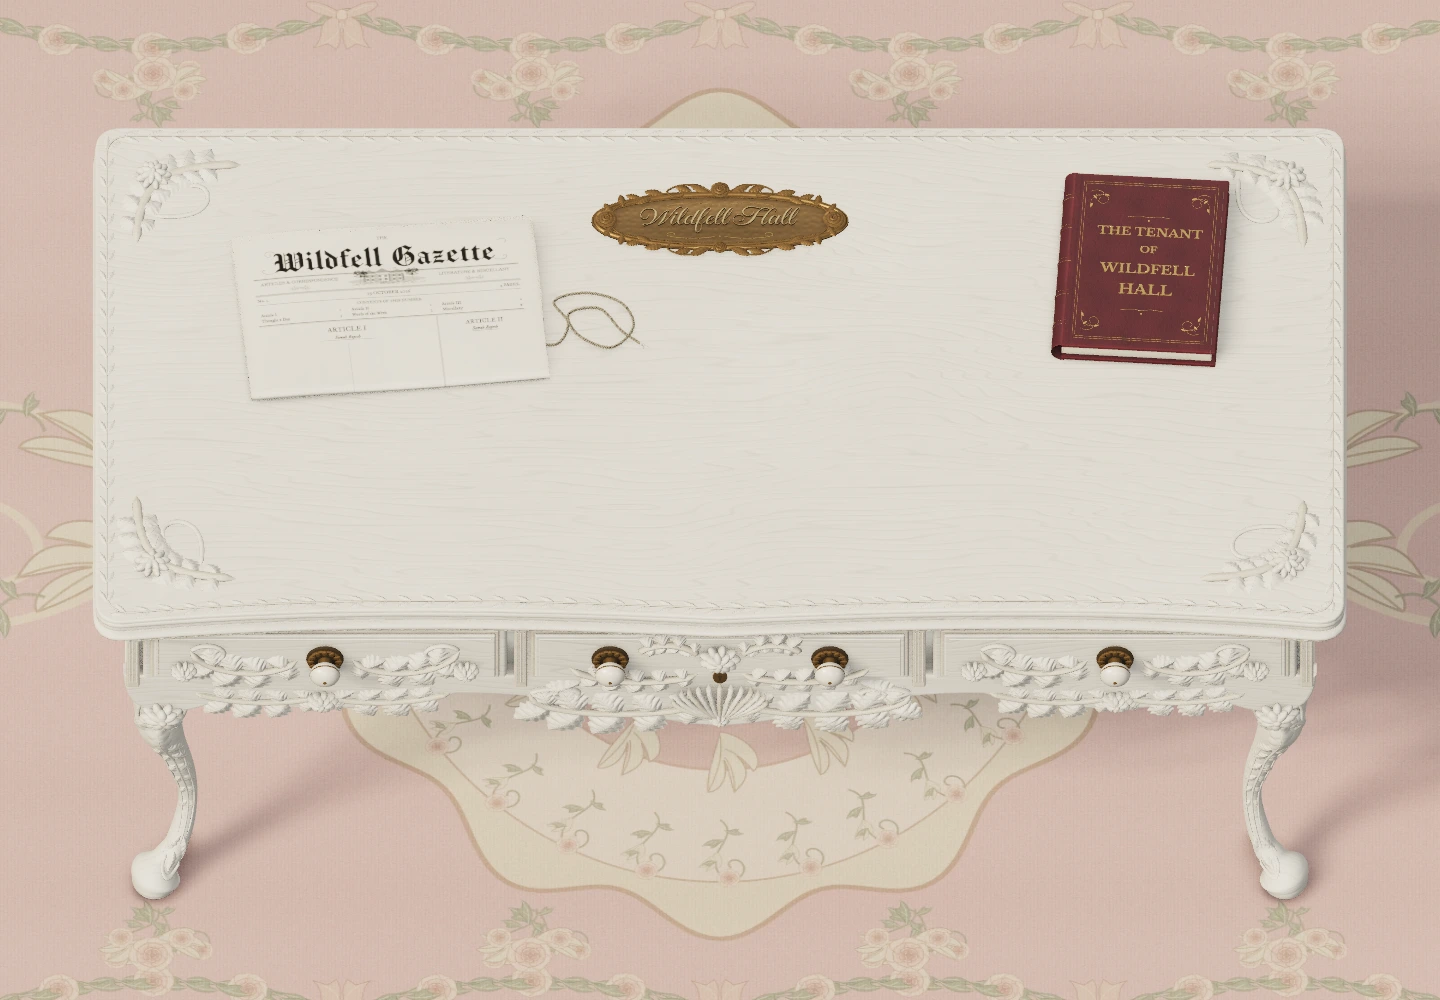
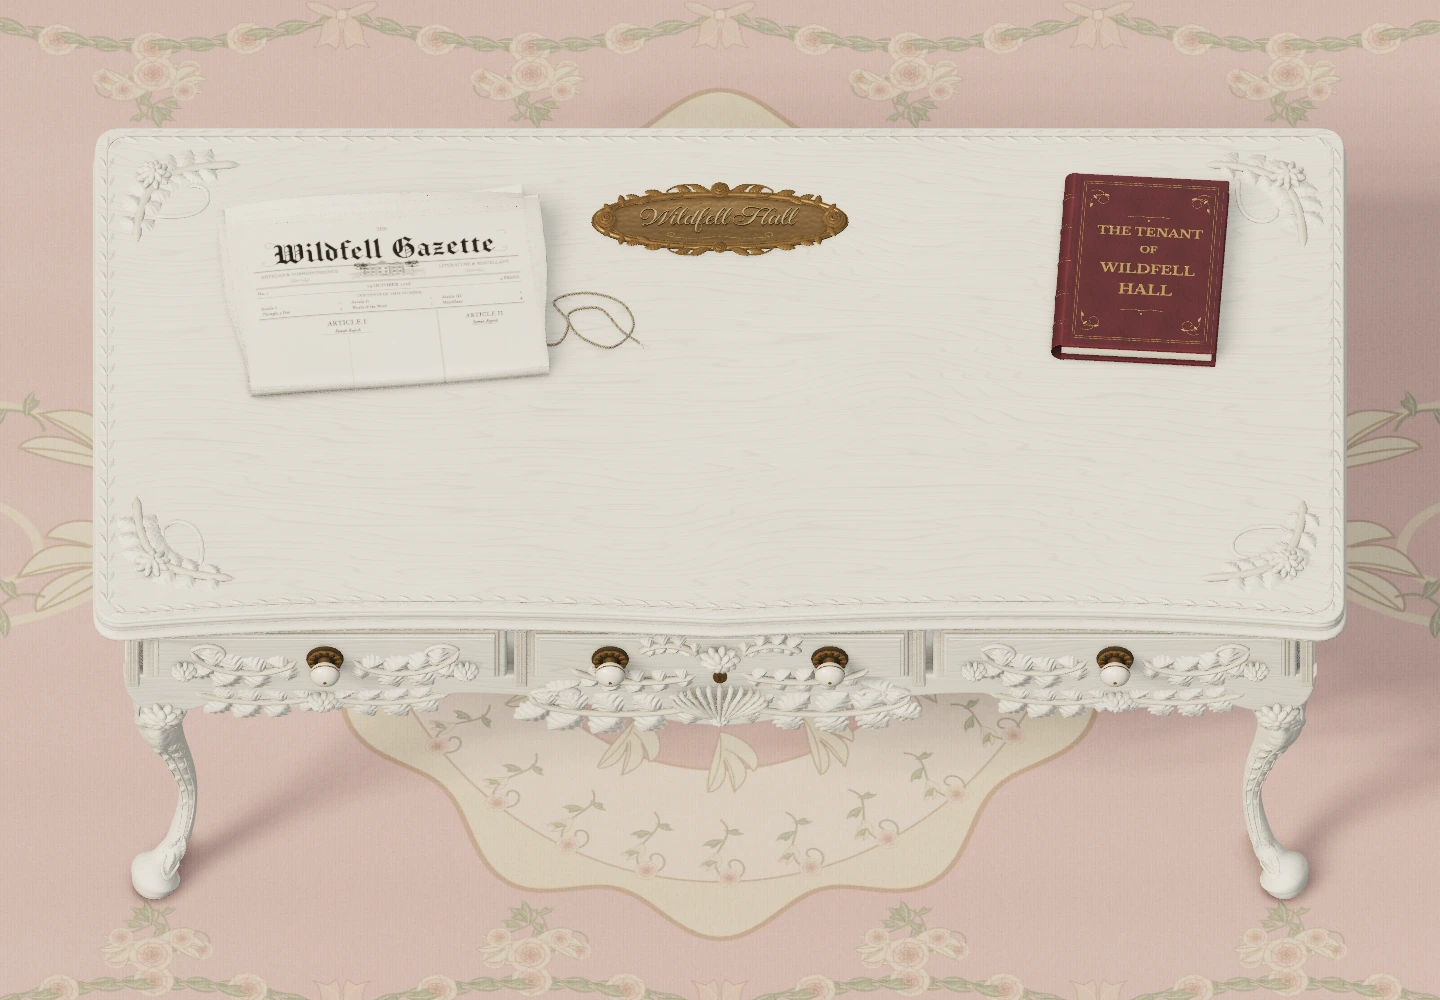
Give the resting Gazette a loose, layered fold

diff --git a/src/gazette-geometry.js b/src/gazette-geometry.js
@@ -30,13 +30,19 @@ export function bendGazette(geometry, openness) {
       const t = row / ROWS;
       if (row) {
         const v = (row - .5) / ROWS;
-        const shoulder = THREE.MathUtils.smoothstep(v, .49 + .004 * u, .538 + .004 * u);
-        const loose = fold * (Math.PI - .035 - .016 * Math.sin(u * Math.PI)) * shoulder;
+        // The untied bundle holds air in its shoulder. As it opens that
+        // broad bend settles into the much smaller remembered paper crease.
+        const radiusSpan = .048 + .046 * fold;
+        const centre = .514 + .004 * u;
+        const shoulder = THREE.MathUtils.smoothstep(v, centre - radiusSpan / 2, centre + radiusSpan / 2);
+        const loose = fold * (Math.PI - .065 - .024 * Math.sin(u * Math.PI)) * shoulder;
         const cockle = .014 * Math.sin(v * 13 + u * 5) + .006 * Math.sin(v * 31 - u * 8);
         const edgeCurl = .17 * Math.exp(-v * 42) * Math.sin(u * 5 + 1)
           - .20 * Math.exp(-(1 - v) * 37) * Math.sin(u * 4 + .4);
         const creaseMemory = .075 * Math.exp(-(((v - .516) / .03) ** 2)) * Math.sin((v - .516) * 64) * openness;
-        const angle = loose + cockle + edgeCurl + creaseMemory;
+        const cornerCurl = -fold * .065 * THREE.MathUtils.smoothstep(v, .72, 1)
+          * (u ** 5 + .55 * (1 - u) ** 6);
+        const angle = loose + cockle + edgeCurl + creaseMemory + cornerCurl;
         z += Math.cos(angle) * step; y += Math.sin(angle) * step;
       }
       // Small asymmetric deckle and a barely rippled free edge. The paper's
@@ -54,23 +60,32 @@ export function bendGazette(geometry, openness) {
   p.needsUpdate = true; geometry.computeVertexNormals(); geometry.computeBoundingBox(); geometry.computeBoundingSphere();
 }
 
-// A nested bundle follows the same rounded fold at a measured distance along
-// its normal. Translating flat sheets vertically would make them intersect at
-// the shoulder. Tiny staggered cut edges remain visible when unfolded.
+// Slips are deliberately unequal, like gathered sheets after a tie is
+// removed. They expose paper on both sides instead of making a regular fan.
+const RESTING_SLIPS = [[0, 0], [-.19, -.13], [.14, -.30], [-.09, -.48]];
+
+// Nest continuous sheets around the shoulder, with thin stock and varying
+// air gaps. The broad sheet faces stay close; the fold and free edges relax.
 export function offsetGazetteLayer(target, source, layer, openness) {
   const p = target.attributes.position, base = source.attributes.position, normals = source.attributes.normal;
-  const separation = .0065 * layer, point = new THREE.Vector3(), normal = new THREE.Vector3();
+  const resting = (1 - openness) ** 2, point = new THREE.Vector3(), normal = new THREE.Vector3();
+  const slip = new THREE.Vector3(), [restX, restZ] = RESTING_SLIPS[layer % RESTING_SLIPS.length];
   for (let i = 0; i < p.count; i++) {
     point.fromBufferAttribute(base, i); normal.fromBufferAttribute(normals, i);
-    point.addScaledVector(normal, separation);
     const u = source.attributes.uv.getX(i), v = source.attributes.uv.getY(i);
-    // Let the free cut edges fan out, but keep the gathered shoulder aligned.
-    // Sliding whole sheets along z would make adjacent folds cross each other.
     const freeEdge = THREE.MathUtils.smoothstep(Math.abs(v - .48), .10, .32);
-    point.x += layer * .012 * freeEdge;
-    point.z += layer * .018 * freeEdge;
-    // The cut corners relax independently without separating the fold.
-    point.y += layer * .0005 * Math.sin(u * 8 + v * 6) * openness * freeEdge;
+    const shoulder = Math.exp(-(((v - .484) / .095) ** 2));
+    const side = Math.abs(u * 2 - 1) ** 5;
+    let curl = 0;
+    for (let gap = 1; gap <= layer; gap++) curl += .35 + .65 * Math.sin(u * 3 + gap * .7) ** 2;
+    const separation = .0065 * layer + resting * (layer * (.027 * shoulder + .014 * side)
+      + (.026 * curl + .021 * layer * side) * freeEdge);
+    point.addScaledVector(normal, separation);
+    // Slide in the sheet's tangent plane. A world-space translation would
+    // cut through the next sheet on the slope approaching the folded edge.
+    slip.set((layer * .012 + resting * restX) * freeEdge, 0,
+      (layer * .018 + resting * restZ) * freeEdge);
+    slip.addScaledVector(normal, -slip.dot(normal)); point.add(slip);
     p.setXYZ(i, point.x, point.y, point.z);
   }
   p.needsUpdate = true; target.computeVertexNormals(); target.computeBoundingBox(); target.computeBoundingSphere();

diff --git a/index.html b/index.html
@@ -13,9 +13,9 @@
     <main id="room" aria-label="An antique white wooden writing desk">
       <div id="desk-fallback" aria-hidden="true">
         <picture>
-          <source media="(min-aspect-ratio: 3/2)" srcset="./materials/desk-still-wide.webp?v=gazette-3" />
-          <source media="(max-aspect-ratio: 3/4)" srcset="./materials/desk-still-portrait.webp?v=gazette-3" />
-          <img src="./materials/desk-still.webp?v=gazette-3" alt="" fetchpriority="high" />
+          <source media="(min-aspect-ratio: 3/2)" srcset="./materials/desk-still-wide.webp?v=gazette-4" />
+          <source media="(max-aspect-ratio: 3/4)" srcset="./materials/desk-still-portrait.webp?v=gazette-4" />
+          <img src="./materials/desk-still.webp?v=gazette-4" alt="" fetchpriority="high" />
         </picture>
       </div>
       <h1 class="sr-only">Wildfell Hall</h1>

diff --git a/src/gazette.js b/src/gazette.js
@@ -51,6 +51,9 @@ export async function createGazette(surfaceY, maxTextureSize = 4096) {
       const printedPage = Math.min(printing.pages.length - 1, leaves.length - index - 1);
       leaf.front.material = printing.get(index === leaves.length - 1 ? page : printedPage, false, index !== leaves.length - 1);
       leaf.front.material.side = THREE.FrontSide;
+      // A single paper surface must block the window light from either side
+      // as its loose upper flap folds over the leaves underneath.
+      leaf.front.material.shadowSide = THREE.DoubleSide;
       leaf.back.material = printing.get(index === 0 ? 0 : printedPage, true, index !== 0);
       leaf.back.material.side = THREE.BackSide;
     }
